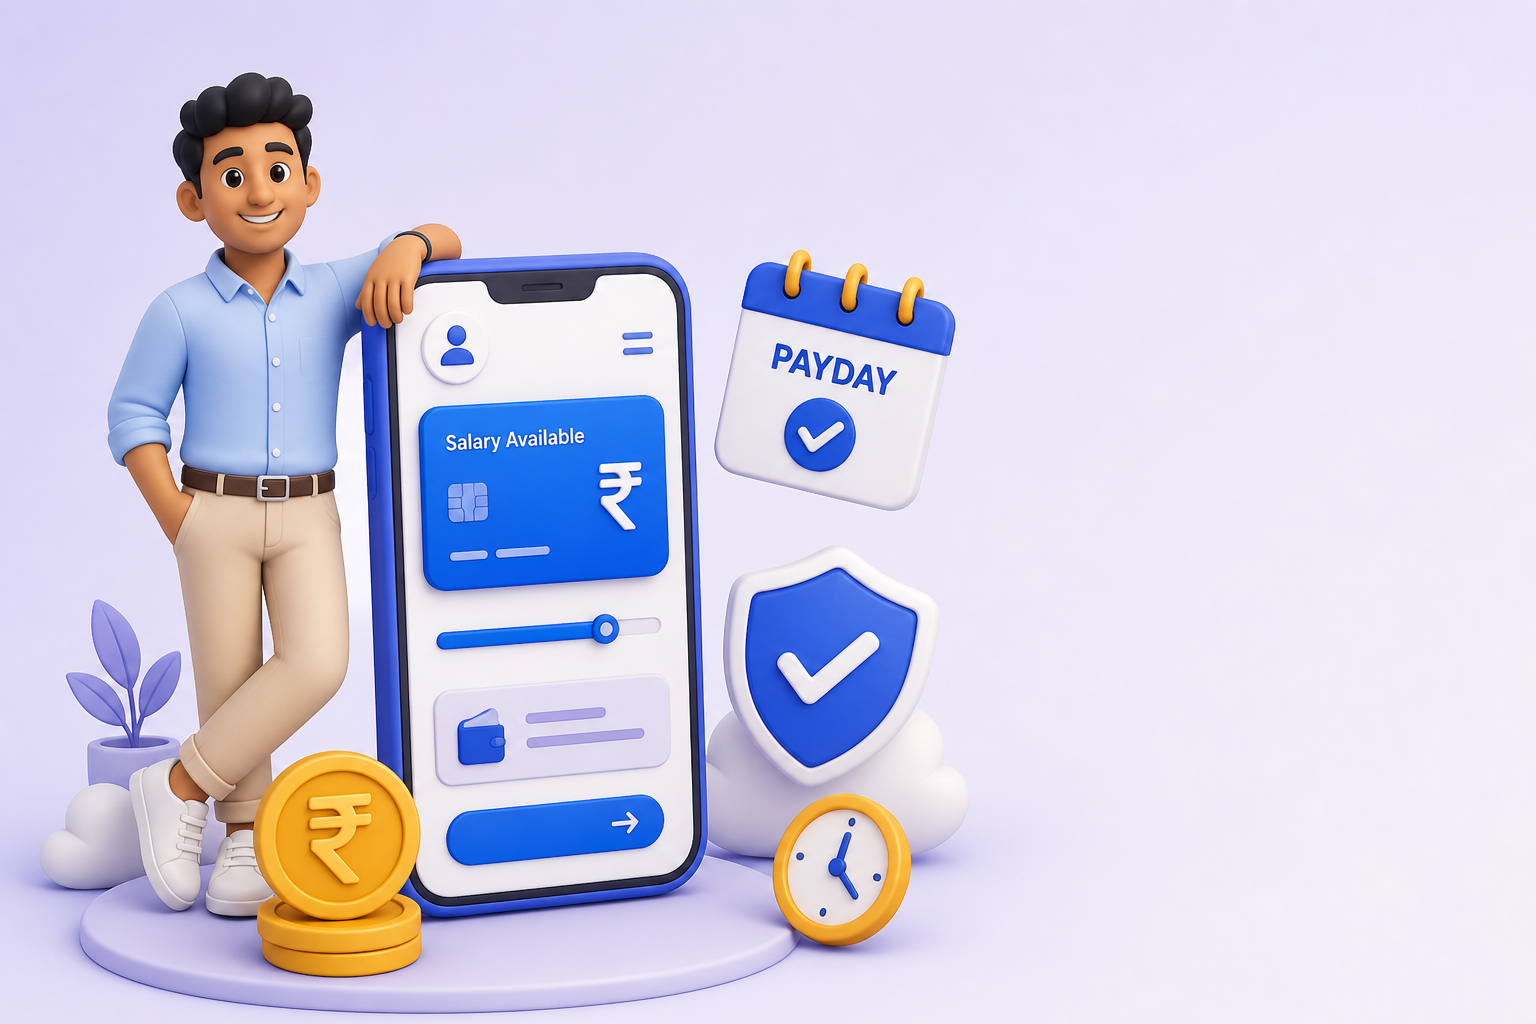
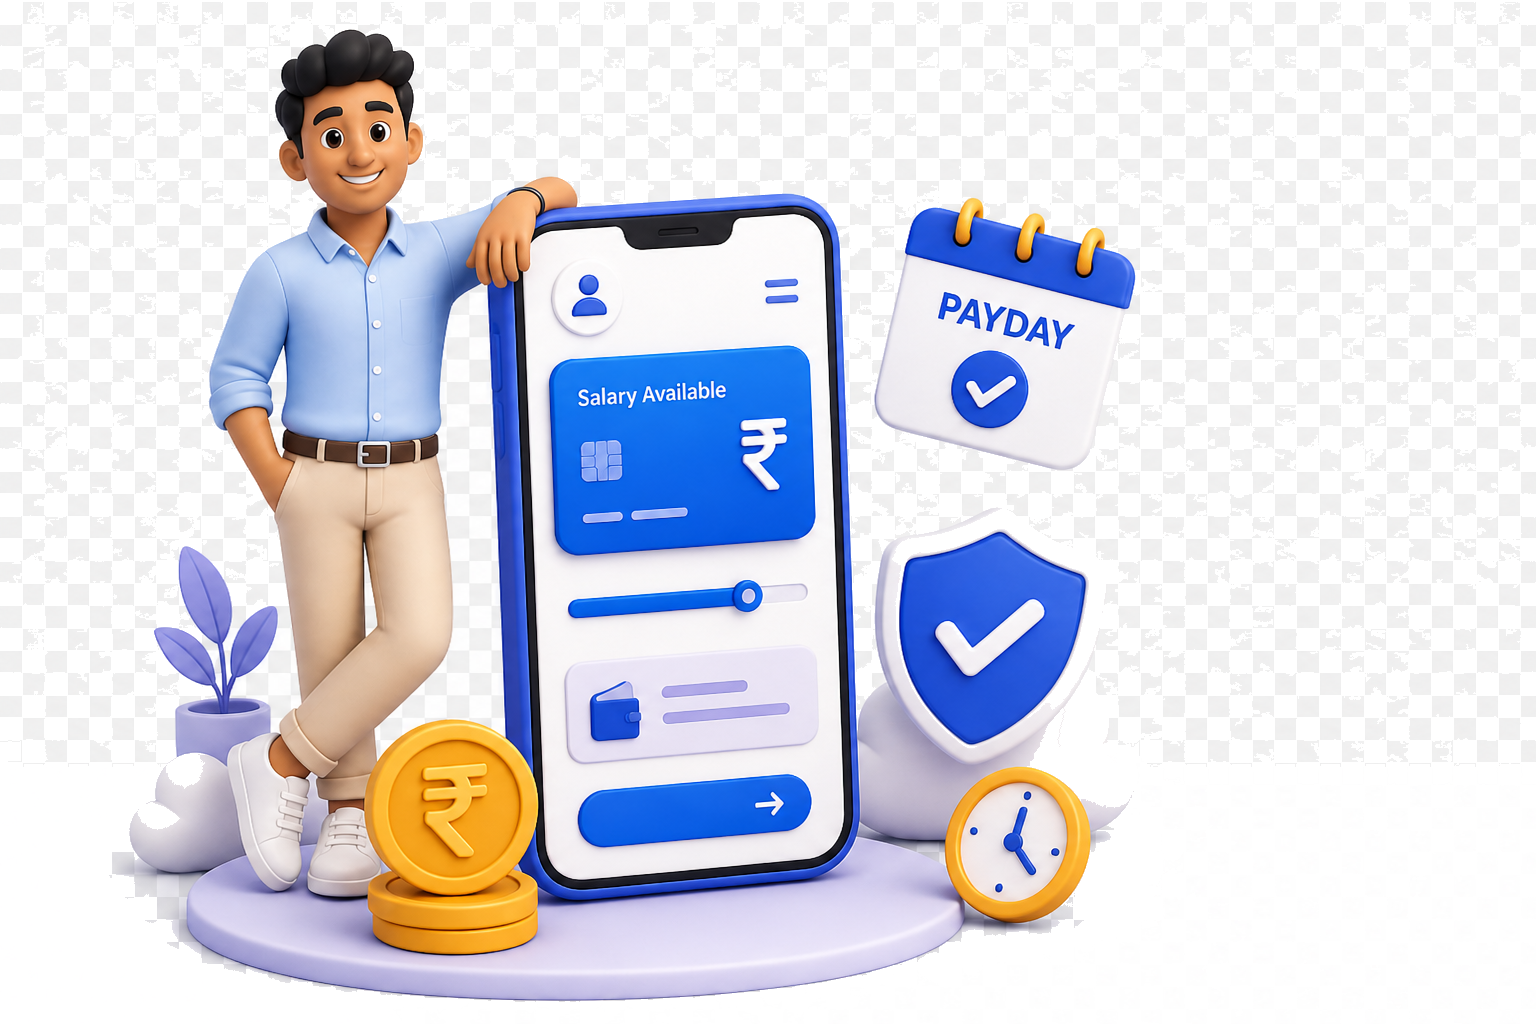
Make hero and Why MobPae art transparent and larger.
Use a right-handed phone photo with a cut-out background so it sits on the page, restore the real app UI after the flip, and enlarge both images.

diff --git a/src/pages/home.css b/src/pages/home.css
@@ -353,6 +353,7 @@
   position: relative;
   min-height: 0;
   display: block;
+  overflow: visible;
 }
 
 .bk-banner__hero {
@@ -366,9 +367,11 @@
 .bk-banner__phone {
   position: relative;
   z-index: 1;
-  width: min(100%, 560px);
+  width: min(124%, 720px);
+  max-width: none;
   height: auto;
-  filter: drop-shadow(0 28px 50px rgba(1, 2, 46, 0.16));
+  margin-right: -8%;
+  filter: drop-shadow(0 24px 40px rgba(1, 2, 46, 0.14));
 }
 
 .bk-banner__hero-shape {
@@ -726,10 +729,10 @@
 
 .bk-about__art img {
   display: block;
-  width: 100%;
-  max-width: 560px;
+  width: 118%;
+  max-width: none;
   height: auto;
-  margin-inline: auto;
+  margin-left: -6%;
 }
 
 .bk-about__copy > p {
@@ -1826,11 +1829,8 @@
     gap: 24px;
   }
   .bk-banner__phone {
-    width: min(100%, 420px);
-  }
-  .bk-banner__hero-shape {
-    max-width: 100%;
-    width: 100%;
+    width: min(100%, 520px);
+    margin-right: 0;
   }
   .bk-service-grid,
   .bk-team-grid {
@@ -1922,6 +1922,10 @@
   .bk-cta__inner,
   .bk-enquiry__inner {
     grid-template-columns: 1fr;
+  }
+  .bk-about__art img {
+    width: 100%;
+    margin-left: 0;
   }
   .bk-banner__copy h1 {
     font-size: 42px;

diff --git a/src/pages/HomePage.tsx b/src/pages/HomePage.tsx
@@ -397,16 +397,11 @@ function HeroArt() {
     <div className="bk-banner__art">
       <div className="bk-banner__hero">
         <img
-          className="bk-banner__hero-shape"
-          src="/ref/banner/h3_hero_shape01.svg"
-          alt=""
-        />
-        <img
           className="bk-banner__phone"
           src="/home/hero-phone-hand.png"
-          alt="Hand holding a phone showing the MobPae employee app"
-          width={960}
-          height={720}
+          alt="Right hand holding a phone showing the MobPae employee app"
+          width={1024}
+          height={1536}
         />
       </div>
     </div>
